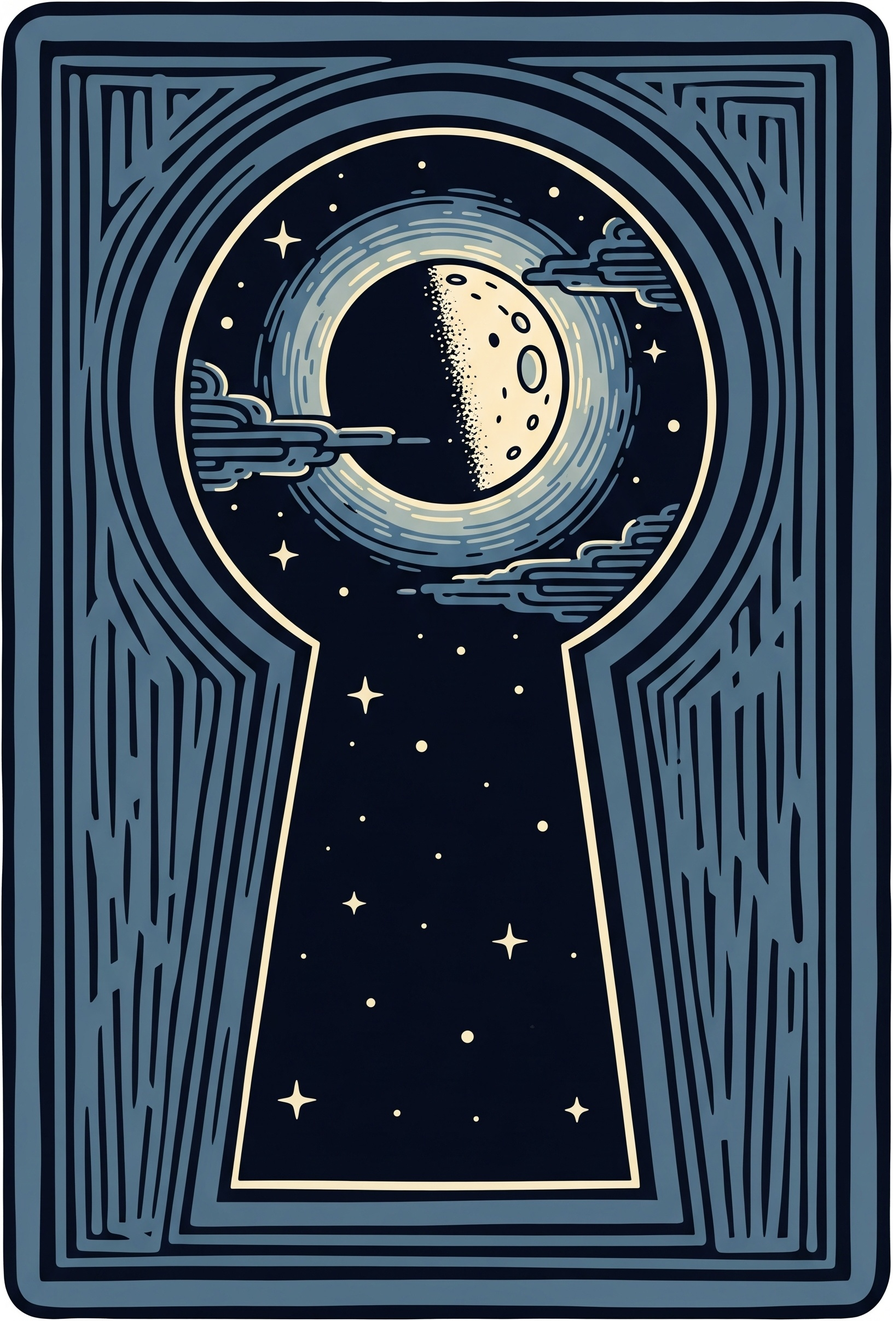
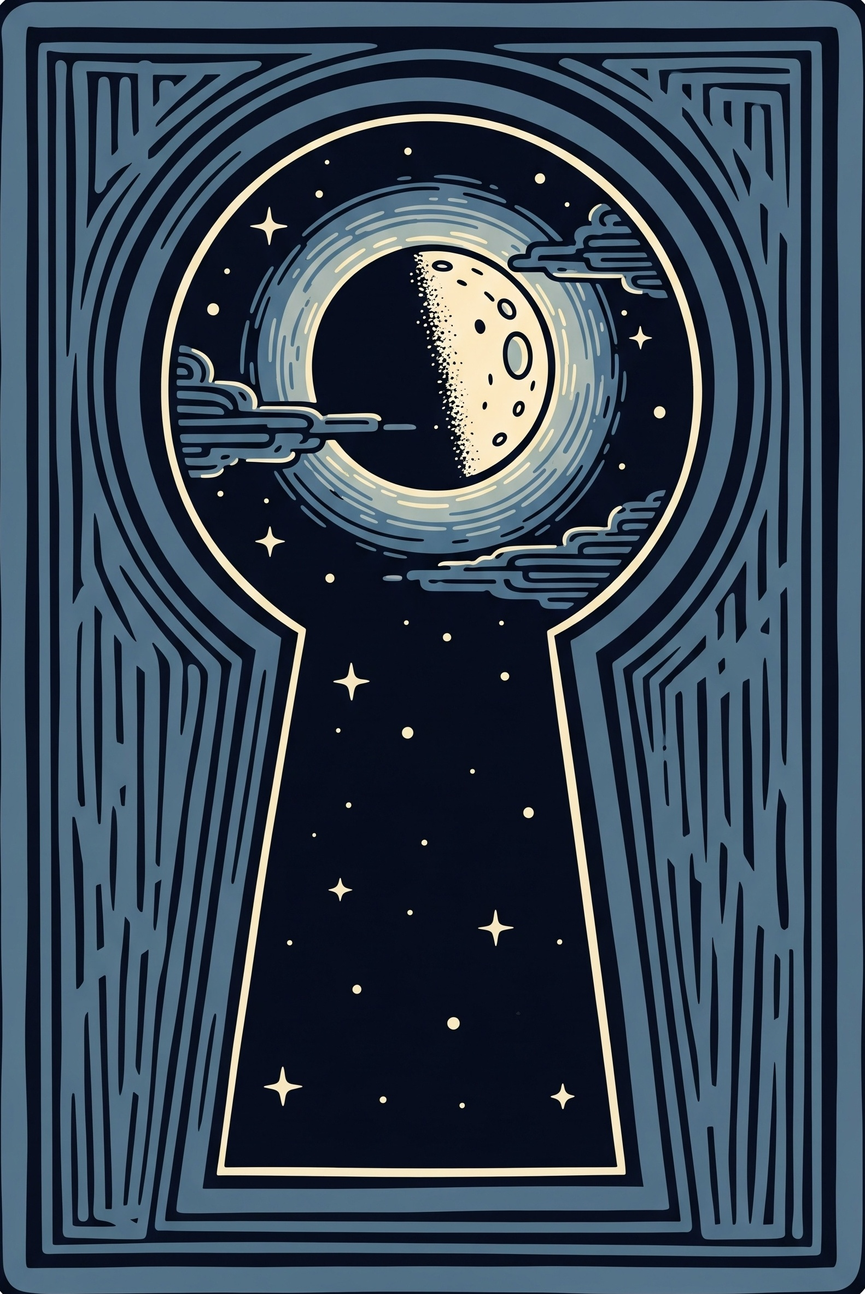
fix: 最終的な白い角と端の完全削除
角の丸みと白い端を完全削除:
- blood-moon.jpg: 20px追加削除
- first-quarter.jpg: 25px追加削除
- full-moon.jpg: 25px追加削除
- moon-mirror.jpg: 20px追加削除
- moon-smile.jpg: 15px追加削除
- moon-tears.jpg: 25px追加削除
- waning-crescent.jpg: 15px追加削除

全タロットカード画像の余白を完全に最適化完了

diff --git a/detect_rounded_corners.py b/detect_rounded_corners.py
@@ -1,0 +1,86 @@
+#!/usr/bin/env python3
+"""
+角が丸い画像や白い余白が残っている画像を詳しく検出
+"""
+
+from PIL import Image
+import numpy as np
+import os
+import glob
+
+def check_corners_and_edges(image_path, corner_size=20, threshold=200):
+    """
+    画像の四隅と端を詳しくチェック
+    """
+    img = Image.open(image_path)
+    img_array = np.array(img)
+    height, width = img_array.shape[:2]
+    
+    filename = os.path.basename(image_path)
+    issues = []
+    
+    # 四隅をチェック（角が丸いか、白いか）
+    corners = {
+        'top-left': img_array[:corner_size, :corner_size],
+        'top-right': img_array[:corner_size, -corner_size:],
+        'bottom-left': img_array[-corner_size:, :corner_size],
+        'bottom-right': img_array[-corner_size:, -corner_size:]
+    }
+    
+    for corner_name, corner_array in corners.items():
+        # 角のピクセルの平均色をチェック
+        mean_color = np.mean(corner_array)
+        if mean_color > threshold:  # 白っぽい
+            mean_rgb = np.mean(corner_array.reshape(-1, 3), axis=0).astype(int)
+            issues.append(f"{corner_name}: 白い角 RGB{tuple(mean_rgb)}")
+    
+    # 各辺の端を詳しくチェック（1ピクセルから5ピクセルまで）
+    for edge_width in [1, 3, 5]:
+        edges = {
+            f'top-{edge_width}px': img_array[:edge_width, :],
+            f'bottom-{edge_width}px': img_array[-edge_width:, :],
+            f'left-{edge_width}px': img_array[:, :edge_width],
+            f'right-{edge_width}px': img_array[:, -edge_width:]
+        }
+        
+        for edge_name, edge_array in edges.items():
+            mean_color = np.mean(edge_array)
+            if mean_color > threshold:
+                mean_rgb = np.mean(edge_array.reshape(-1, 3), axis=0).astype(int)
+                issues.append(f"{edge_name}: RGB{tuple(mean_rgb)}")
+    
+    if issues:
+        print(f"\n{filename}:")
+        for issue in issues:
+            print(f"  {issue}")
+        return True
+    
+    return False
+
+def main():
+    base_dir = "/Users/shiraitouma/daniel/line-love-edu/public/images/tarot-cards"
+    
+    # すべてのJPG画像をチェック
+    jpg_files = glob.glob(os.path.join(base_dir, "*.jpg"))
+    
+    print("角の丸みと白い余白を詳しくチェック中...")
+    print("=" * 50)
+    
+    problem_files = []
+    
+    for file_path in sorted(jpg_files):
+        if "original" not in file_path:
+            if check_corners_and_edges(file_path):
+                problem_files.append(os.path.basename(file_path))
+    
+    print("\n" + "=" * 50)
+    print("=== 結果 ===")
+    if problem_files:
+        print(f"問題がある画像: {len(problem_files)}枚")
+        for filename in problem_files:
+            print(f"  - {filename}")
+    else:
+        print("問題がある画像はありません")
+
+if __name__ == "__main__":
+    main()

diff --git a/final_aggressive_trim.py b/final_aggressive_trim.py
@@ -1,0 +1,70 @@
+#!/usr/bin/env python3
+"""
+残っている白い角と端を最終的に積極的トリミング
+"""
+
+from PIL import Image
+import os
+
+def final_trim(image_path, trim_pixels):
+    """
+    画像の周囲から指定ピクセル分を最終トリミング
+    """
+    img = Image.open(image_path)
+    width, height = img.size
+    
+    filename = os.path.basename(image_path)
+    print(f"\n処理中: {filename}")
+    print(f"  元のサイズ: {img.size}")
+    
+    # トリミング
+    left = trim_pixels
+    top = trim_pixels
+    right = width - trim_pixels
+    bottom = height - trim_pixels
+    
+    if left < right and top < bottom:
+        cropped = img.crop((left, top, right, bottom))
+        
+        # 保存
+        cropped.save(image_path, 'JPEG', quality=95)
+        
+        print(f"  新しいサイズ: {cropped.size}")
+        print(f"  削減: {trim_pixels}ピクセル（全辺）")
+        return True
+    else:
+        print(f"  画像が小さすぎてトリミングできません")
+        return False
+
+def main():
+    """
+    白い角が残っている画像を最終トリミング
+    """
+    base_dir = "/Users/shiraitouma/daniel/line-love-edu/public/images/tarot-cards"
+    
+    # 処理対象のファイルと各ファイルごとのトリミング量
+    # 角の丸みと白い端を完全に削除
+    target_files = {
+        "blood-moon.jpg": 20,          # 白い角を削除
+        "first-quarter.jpg": 25,       # 白い角を削除
+        "full-moon.jpg": 25,           # 白い角を削除
+        "moon-mirror.jpg": 20,         # 白い端を削除
+        "moon-smile.jpg": 15,          # 下部の白を削除
+        "moon-tears.jpg": 25,          # 白い端を削除
+        "waning-crescent.jpg": 15,     # 下部の白を削除
+    }
+    
+    processed_count = 0
+    
+    for filename, trim_pixels in target_files.items():
+        file_path = os.path.join(base_dir, filename)
+        if os.path.exists(file_path):
+            if final_trim(file_path, trim_pixels):
+                processed_count += 1
+        else:
+            print(f"ファイルが見つかりません: {filename}")
+    
+    print(f"\n完了！ {processed_count}個のファイルを最終トリミングしました。")
+
+if __name__ == "__main__":
+    main()
